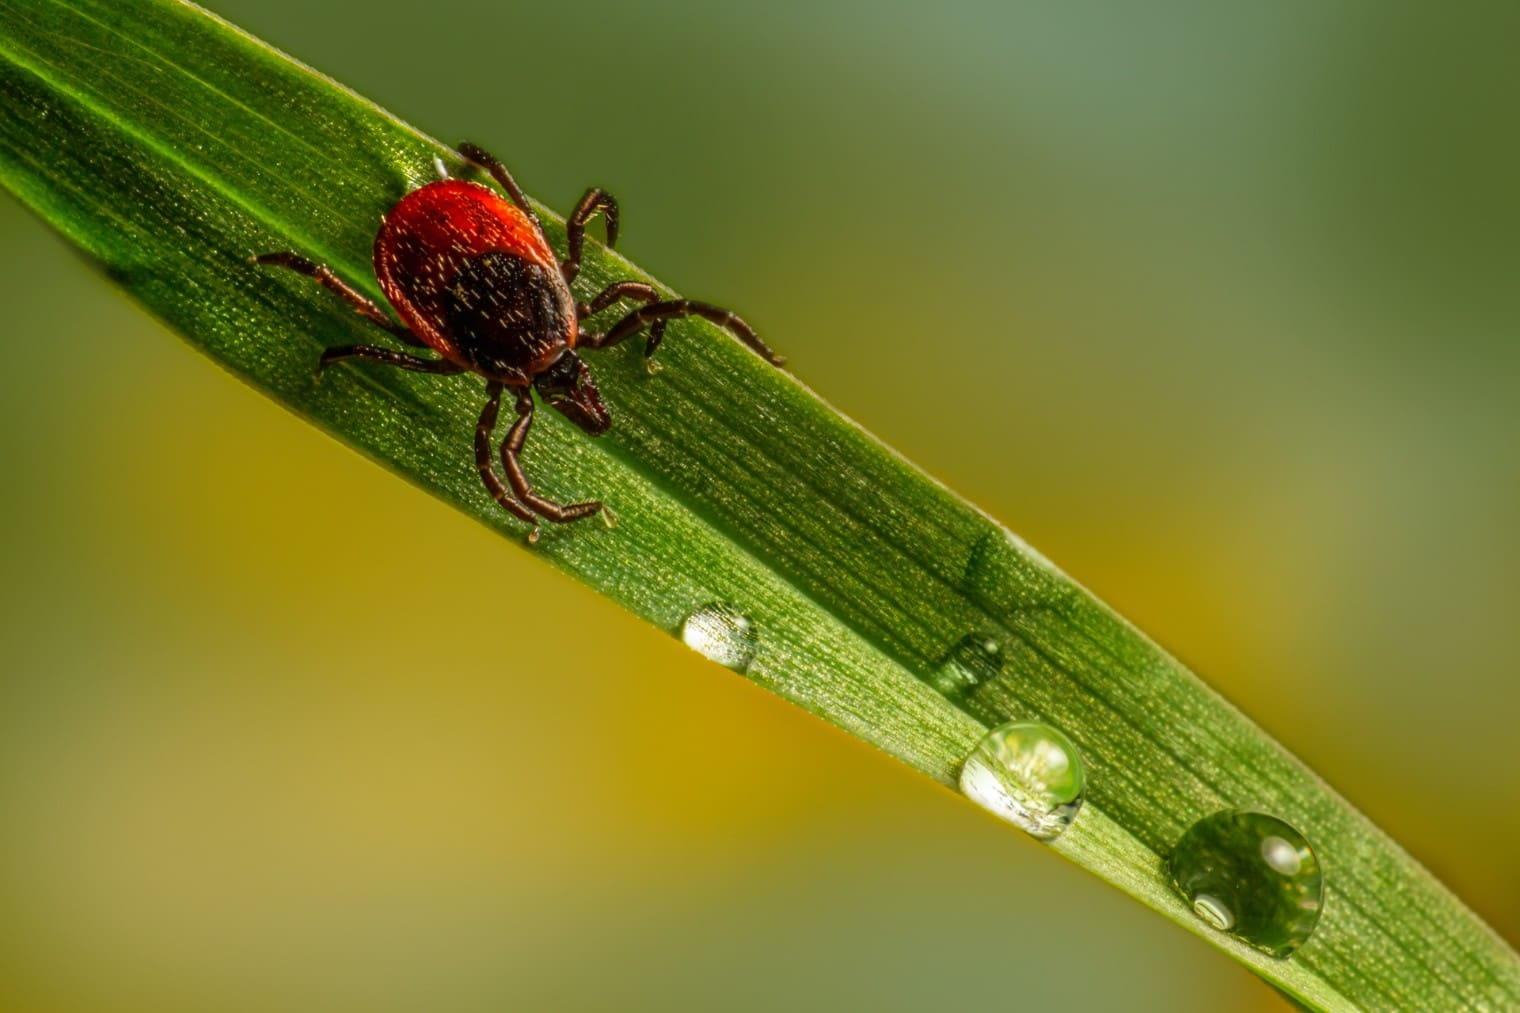
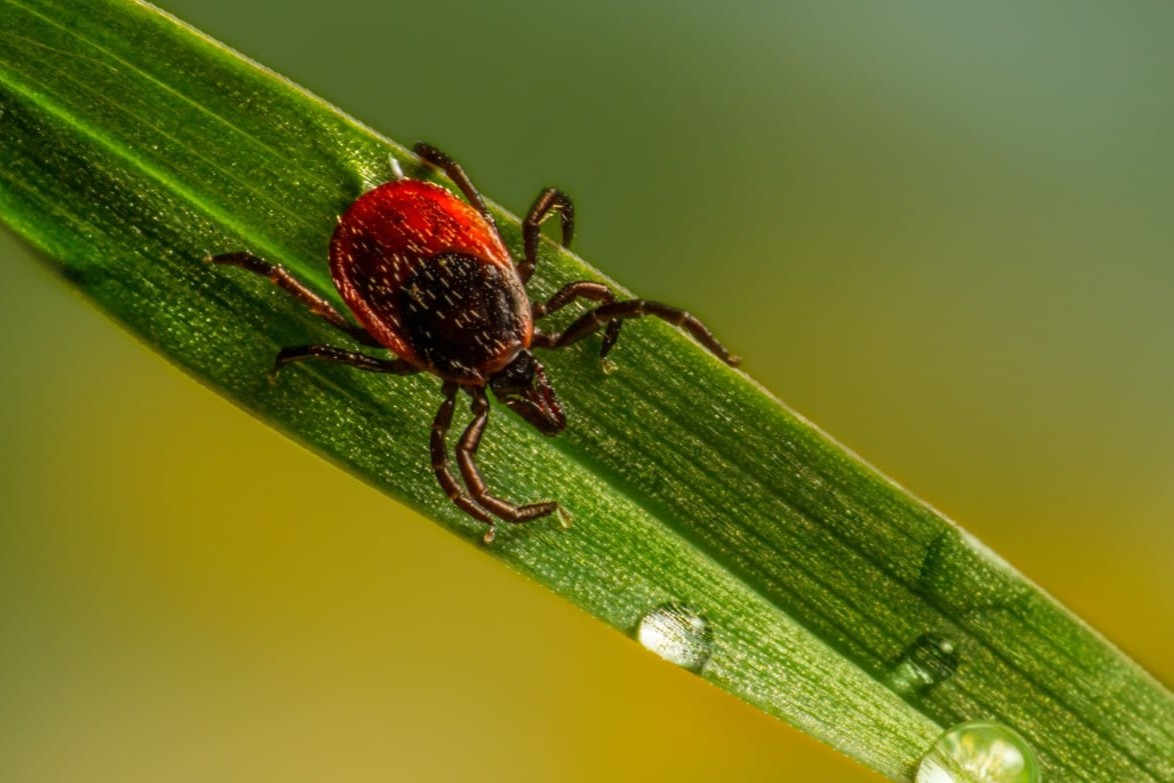
navbar update and some copyrighting

diff --git a/src/pages/Home.jsx b/src/pages/Home.jsx
@@ -1,11 +1,27 @@
 import React, { useState, useEffect } from 'react';
-import './home.css';
+import '../styles/home.css';
 
 import img1 from '../assets/PXL_20230525_144157511.jpg';
 import img2 from '../assets/lawn-tick-control.jpg';
 import img3 from '../assets/ticks-close.jpg';
 
 const images = [img1, img2, img3 ];
+
+{/*Array of images and their captions*/}
+const slides = [
+    {
+        image: img1,
+        caption: "Ticks under a microscope"
+    },
+    {
+        image: img2,
+        caption: "wassup"
+    },
+    {
+        image: img3,
+        caption: "hii"
+    }
+];
 
 function Slideshow() {
 
@@ -16,7 +32,7 @@ function Slideshow() {
 
     useEffect(() => {
         const timer = setInterval(() => {
-            setCurrentIndex((prev) => (prev === images.length - 1 ? 0 : prev + 1));
+            setCurrentIndex((prev) => (prev === slides.length - 1 ? 0 : prev + 1));
         }, 4000);
 
         return () => clearInterval(timer);
@@ -25,11 +41,16 @@ function Slideshow() {
     return (
 
         <div className = "slideshow-container">
+            {/*The image*/}
             <img
             src = {images[currentIndex]}
             alt = {`Slide ${currentIndex + 1}`}
             />
 
+            {/*the caption*/}
+            <div className = "caption">
+                <p>{slides[currentIndex].caption}</p>
+            </div>
         </div>
     );
 
@@ -44,7 +65,10 @@ function Home() {
             {/* INTROUDCTION */}
 
             <div className = "intro-strip-container">
-                <p> intro words words words words words words words words words words words words</p>
+                <p> Our laboratory studies the epidemiology and ecology of vector-borne infections. Our main focus 
+                    is to try to understand how tick-borne pathogens are perpetuated in nature. We are reexamining current
+                    dogma about deer tick-transmitted infections such as Lyme disease with modern molecular tools
+                    and finding that much of our understanding of the transmission cycles in nature is incomplete.</p>
             </div> 
 
             <div className = "intro-container">

diff --git a/src/components/navbar.css b/src/components/navbar.css
@@ -14,7 +14,7 @@
 
 .navbar h1 {
     color:#FEFEFE;
-    font-size: 20px;
+    font-size: 16px;
     text-shadow: -2px -2px 0px #5d9bf9;
     margin: 0;
 }
@@ -31,24 +31,34 @@
 .navLinks {
     list-style-type: none;
     display: flex;
-    gap: 4rem;
-    margin: 20px;
+    height: 40px;
+
+    gap: 3rem;
+    margin: 10px;
     padding: 0;
 
 }
 
 .navbar .navLinks  li{
-    margin-right: 0.5rem;
+    margin-right: 0.7rem;
     margin-left: 0.5rem;
     font-family: "Lora", serif;
-    border-radius: 10px;
+
+    border-radius: 2px;
+
     border-color:#B7C396;
+}
+.navbar .navLinks li:hover {
+    background-color: #49a065;
+    height:50px;
+    width: auto;
+
 }
 
 .navbar .navLinks  a{
     color:#FEFEFE;
     text-decoration: none;
-    font-size: 20px;
+    font-size: 15px;
 
 }
 

diff --git a/src/pages/About.jsx b/src/pages/About.jsx
@@ -1,5 +1,5 @@
 import React from 'react';
-import './about.css';
+import '../styles/about.css';
 
 import img1 from '../assets/heidi.jpeg';
 import img2 from '../assets/sam.jpeg';

diff --git a/src/pages/identification.jsx b/src/pages/identification.jsx
@@ -1,5 +1,5 @@
 import React from 'react';
-import './identification.css';
+import '../styles/identification.css';
 
 
 

diff --git a/src/index.css b/src/index.css
@@ -83,7 +83,6 @@ code,
 code {
   font-size: 15px;
   line-height: 135%;
-  padding: 4px 8px;
   background: var(--code-bg);
 }
 